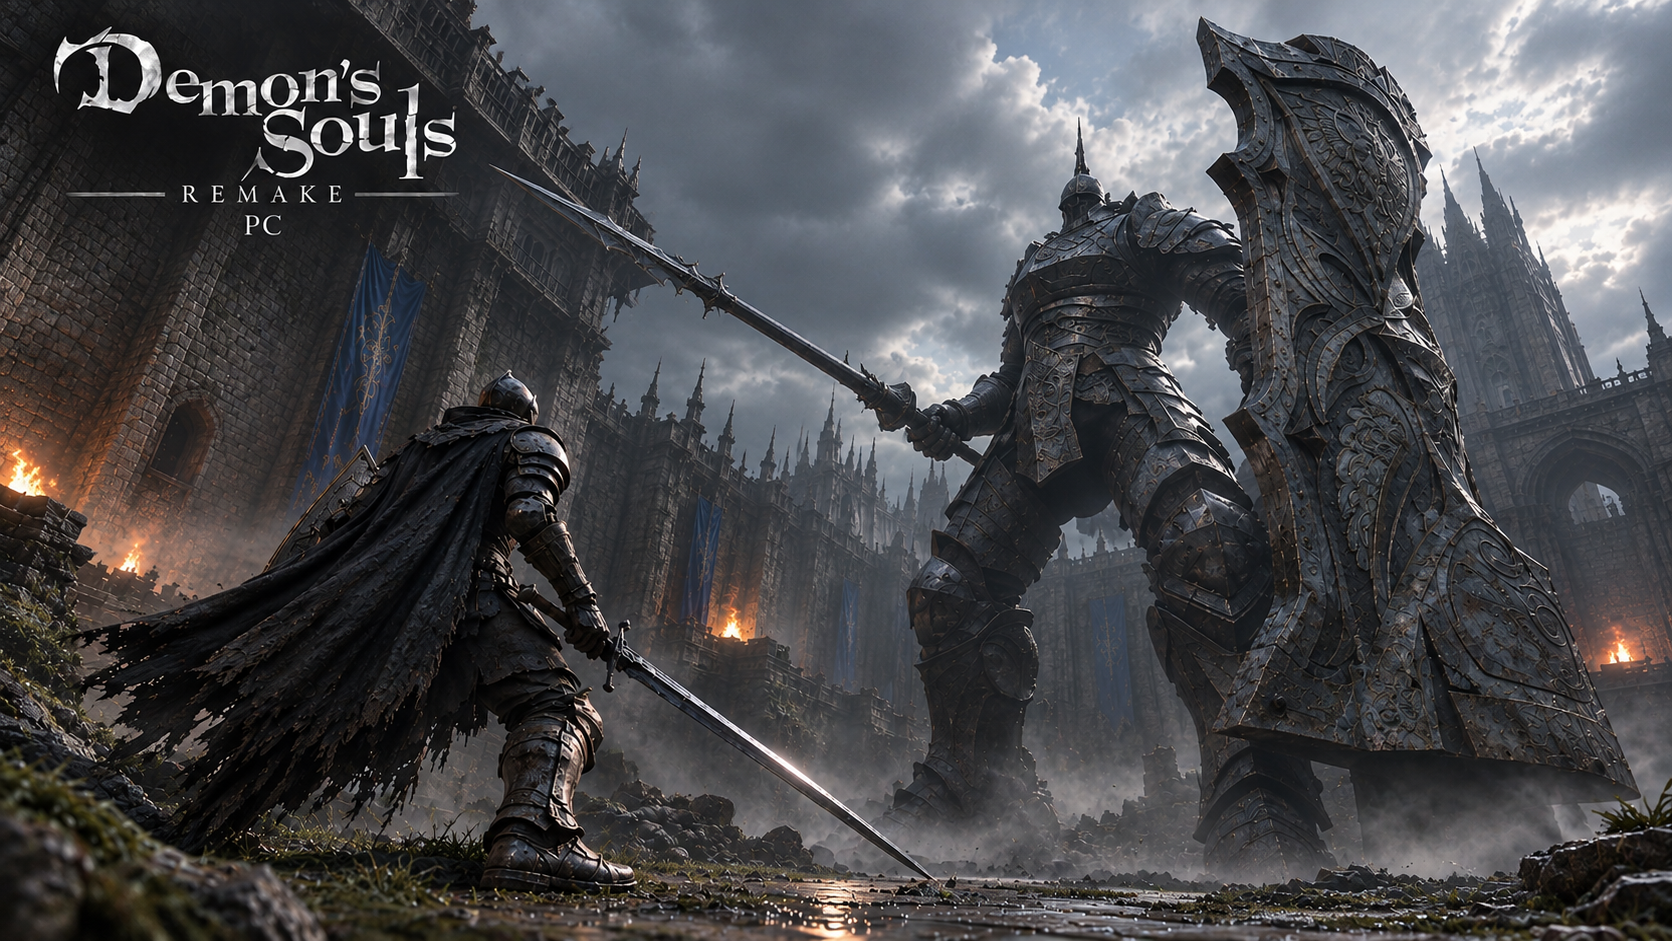
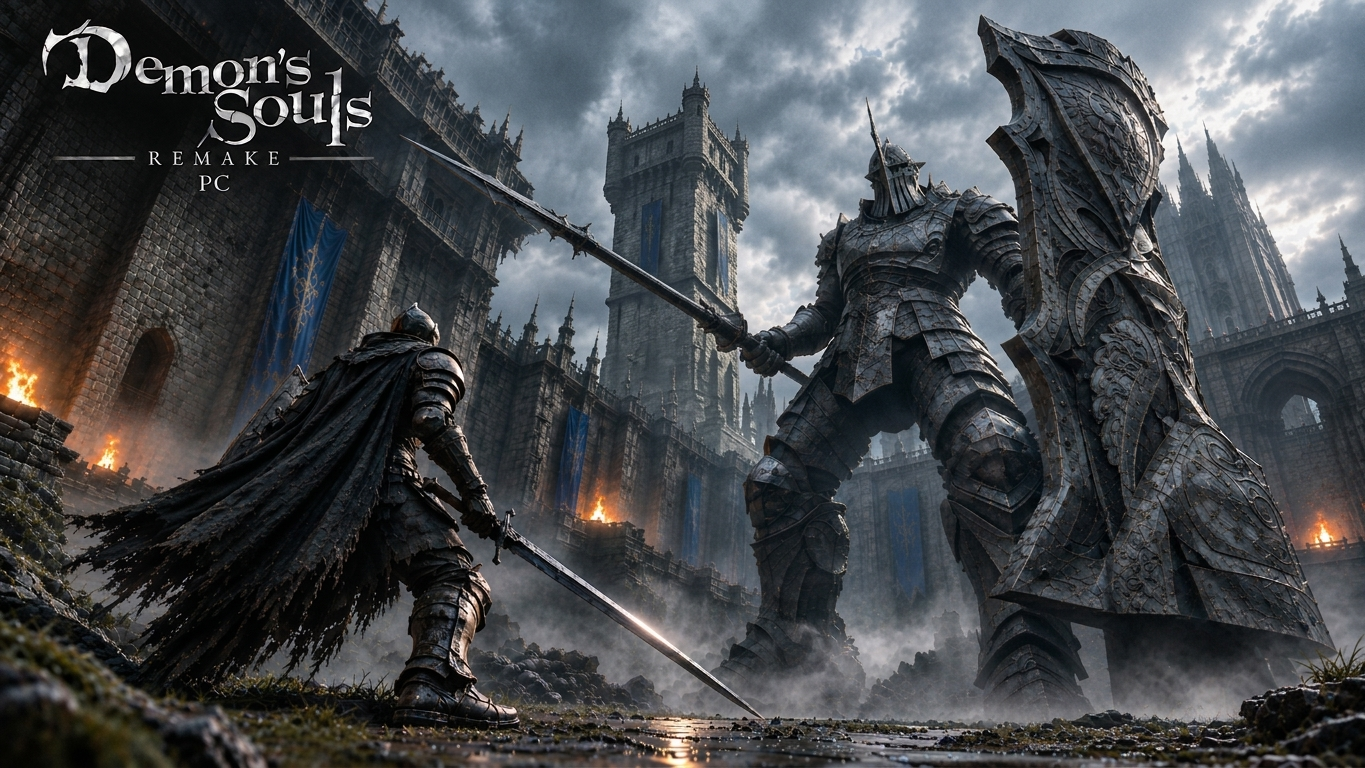
Fondo nuevo del lanzador y notas de la release de Demon's Souls
Claude-Session: https://claude.ai/code/session_01HTnD3kTtFsRrmeZyNzhQJh

diff --git a/docs/RELEASE-NOTES-DS.md b/docs/RELEASE-NOTES-DS.md
@@ -1,0 +1,23 @@
+## Novedades de esta versión
+
+**Memoria nativa (por defecto)**
+- La memoria del juego ahora es memoria privada normal de Windows. Ya no se usa la vista compartida que provocaba los reinicios del PC.
+- El emulador ve lo que escribe el juego mediante fallos de protección de página, y copia los datos de la GPU de forma segura.
+- Resultado: el juego es estable y ya no reinicia Windows.
+
+**Sin parpadeos**
+- Antes, a veces la CPU leía los datos de visibilidad de los objetos antes de que la GPU terminara de escribirlos. Ahora se espera a la GPU y los datos se devuelven antes de que la CPU los lea.
+- Desaparecen los parpadeos de objetos en Boletaria.
+
+**Rendimiento**
+- Las ventanas de copia hacia la GPU se agrandan de 16–64 KiB a 1 MiB cuando el juego escribe de forma seguida, así se hacen muchas menos copias.
+- En la zona de Boletaria, unos 13,8 ms por fotograma de media en una partida larga.
+
+**Menos RAM**
+- Las texturas que solo están en la GPU dejan de ocupar también RAM. Si no se tocan en 60 s, se liberan otra vez.
+- Esas texturas se guardan primero en un archivo temporal junto al exe (kyty-ram17-*.tmp, máximo 8 GB, siempre deja 2 GB libres en el disco). Si el juego las vuelve a necesitar, se leen de ahí y no se pierde ninguna.
+- Ahorro medido: unos 1,2 GB de RAM.
+
+Todo esto va activado por defecto. Para desactivar una parte, pon en settings.ini, sección [Avanzado], en extra: KYTY_RAIZ=0, KYTY_PARPADEO6=0, KYTY_REND1=0, KYTY_RAM16=0 o KYTY_RAM17=0.
+
+Sin cambios en la calidad ni en los trofeos. No incluye DLSS 5: necesita tu propio nvngx_dlssnr.dll.
